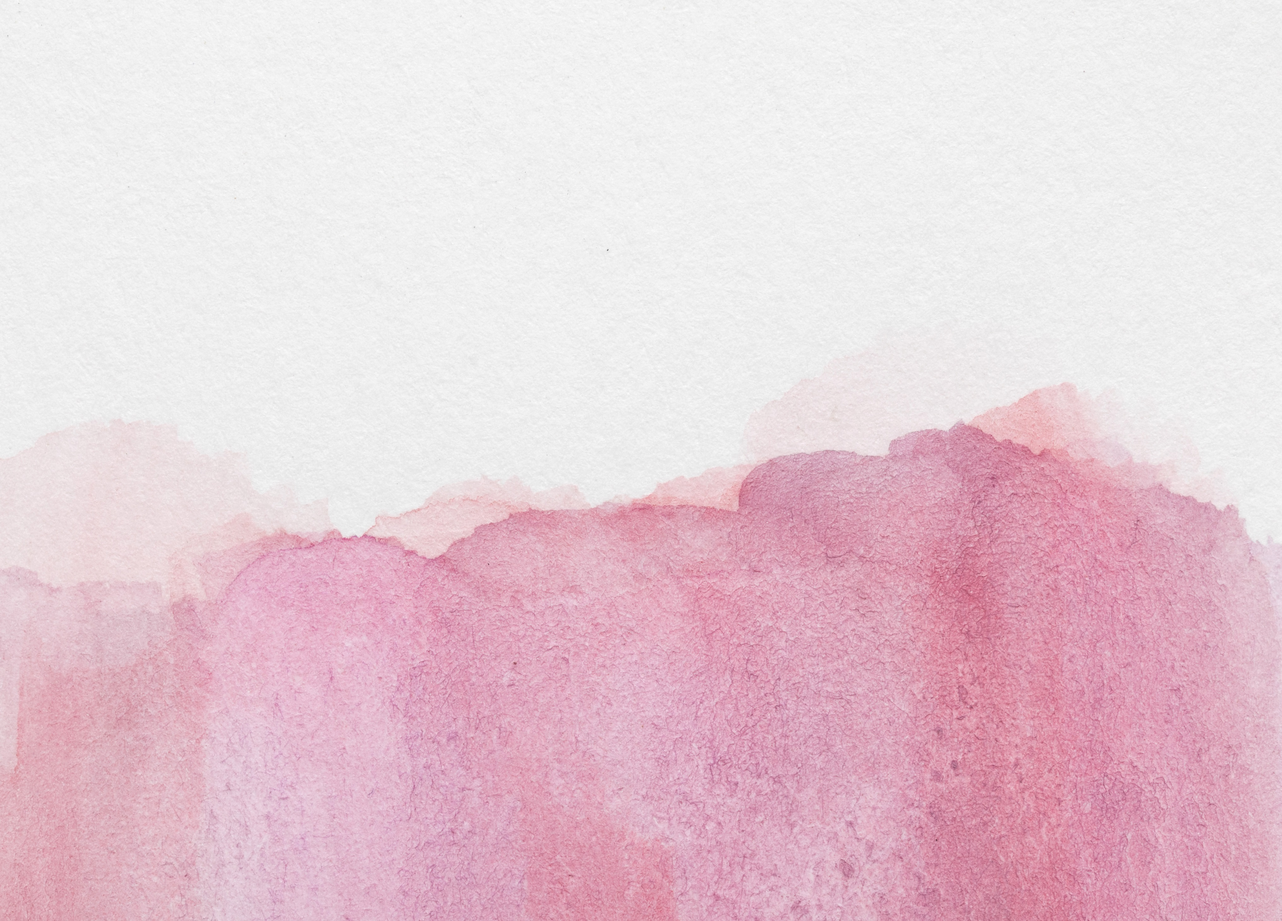
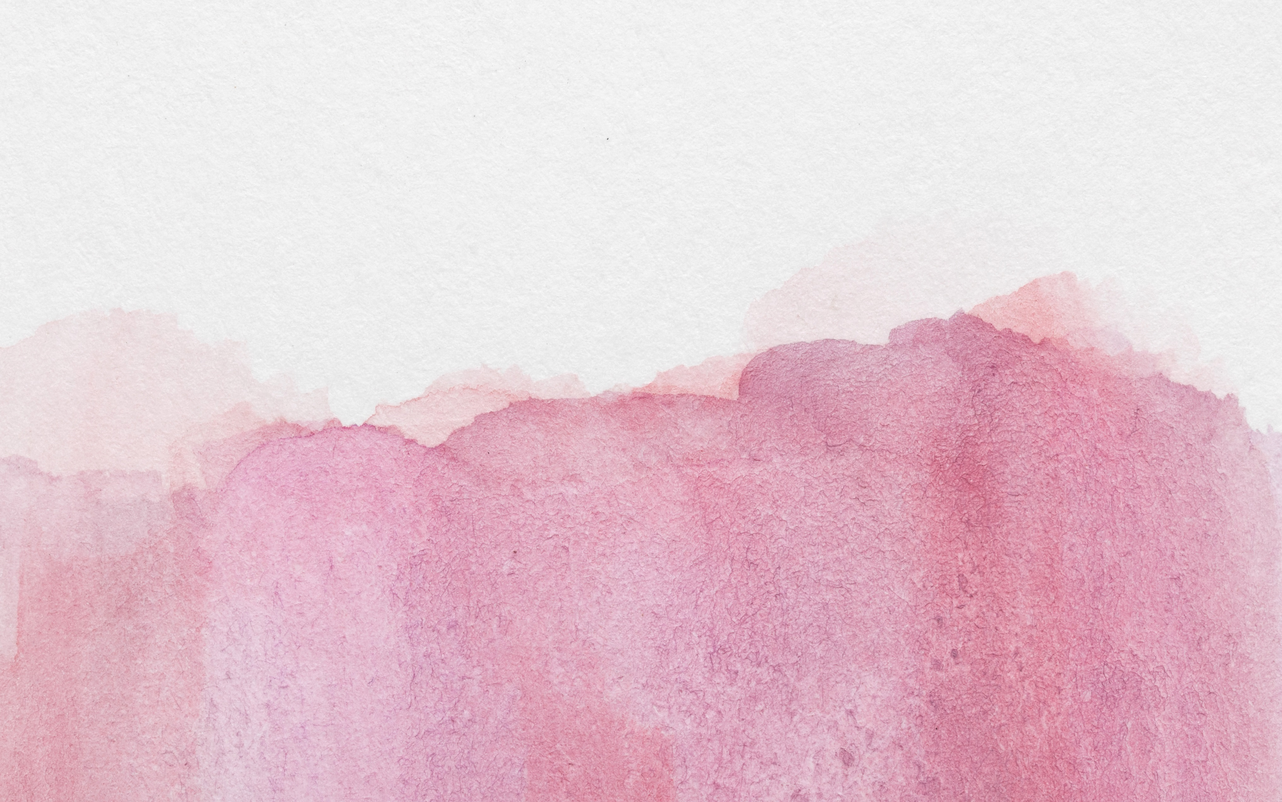
Finishing

diff --git a/public/css/style.css b/public/css/style.css
@@ -10,7 +10,7 @@ body{
 
 .jumbotron{
     box-shadow: 5px 10px 30px 5px grey;
-    text-shadow: 3px 3px 3px snow;
+    text-shadow: 3px 2px 3px snow;
     margin-top: 90px;
     margin-left: 7%;
     margin-right: 7%;
@@ -29,7 +29,8 @@ body{
 
 h3{
     color: #5f5f61;
-    font-size: medium;
+    font-size: large;
+    text-shadow: 1px 1px 3px snow;
     font-family: 'Balsamiq Sans', cursive;
 }
 
@@ -50,14 +51,24 @@ h3{
 
 .bg{
     box-shadow: 5px 10px 30px 10px grey;
-    background-color: white;
     padding-bottom: 50px;
     margin-bottom: 50px;
     margin-left: 7%;
     margin-right: 7%;
-    background-image: url("../img/back.jpg");
+    background-image: url("../img/back8.jpg");
     background-repeat: no-repeat;
-    background-size: 1100px;
+    background-size: 1300px;
+    background-position: right;
+}
+
+.about{
+    box-shadow: 5px 10px 30px 10px grey;
+    background-color: #fee9ea;
+    padding-bottom: 50px;
+    margin-bottom: 50px;
+    margin-left: 7%;
+    margin-right: 7%;
+    text-align: justify;
 }
 
 .data{

diff --git a/public/js/script.js b/public/js/script.js
@@ -172,7 +172,7 @@ var controller = (function(dataCtrl, UICtrl){
         UICtrl.claerFields();
         
         // Alert
-        alert('Data Tersubmit, silakan liat hasil pada table di bawah');
+        alert('The data has been submitted, please look at the table below');
     };
 
     return{

diff --git a/resources/views/about.blade.php b/resources/views/about.blade.php
@@ -1,0 +1,34 @@
+@extends('layout/layout')
+
+@section('title', 'About')
+
+@section('content')
+    <!-- Jumbotron -->
+    <div class="jumbotron text-center p-3 mb-5 bg-white rounded">
+      <div class="container">
+        <h1>About This App</h1>
+        <p>This App made with Laravel and Javascript by Muhammad Fauzan Al-Ghifari</p>
+      </div>
+    </div>
+
+    <div class="about p-3 mb-5 rounded">
+    <ul class="list-group">
+      <li class="list-group-item list-group-item-danger">APP SPECIFICATION</li>
+      <li class="list-group-item">Campuspedia membutuhkan sebuah sistem untuk menghitung berapa jam
+    anak magang mengerjakan tugas di kantor.</li>
+      <li class="list-group-item">inputan berupa tanggal, jam
+    masuk, jam pulang, tugas yang dikerjakan dan kendala apa saja saat
+    mengerjakan tugas</li>
+      <li class="list-group-item"> Jam 12.00-13.00 kemudian jam 16.00-17.00 dan jam
+    18.00-19.00 tidak dihitung jam kerja karena waktu istirahat dan sholat.</li>
+      <li class="list-group-item">Buatlah sistem yang bisa mengakomodasi
+    kebutuhan tersebut. Gunakan juga jquery/javascript untuk tampilan
+    input/output data;</li>
+    <li class="list-group-item">Buat dengan menggunakan framework laravel project taruh di github
+    kemudian kumpulkan link repositorinya.</li>
+    </ul>
+    </div>
+
+
+
+@endsection

diff --git a/resources/views/input.blade.php b/resources/views/input.blade.php
@@ -8,7 +8,7 @@
     <div class="jumbotron text-center p-3 mb-5 bg-white rounded">
       <div class="container">
         <h1>Internship Calculator</h1>
-        <p>This is a simple hero unit, a simple jumbotron-style component for calling extra attention to featured content or information.</p>
+        <p>Enter the input according to the format provided then press Submit</p>
       </div>
     </div>
 

diff --git a/resources/views/layout/layout.blade.php b/resources/views/layout/layout.blade.php
@@ -58,7 +58,7 @@
                 <a class="nav-link" href="/">Restart</a> 
             </li>
             <li class="nav-item">
-                <a class="nav-link" href="/output">About</a>
+                <a class="nav-link" href="/about">About</a>
             </li>
         </ul>
         

diff --git a/routes/web.php b/routes/web.php
@@ -17,6 +17,6 @@ Route::get('/', function () {
     return view('input');
 });
 
-Route::get('/output', function () {
-    return view('output');
+Route::get('/about', function () {
+    return view('about');
 });
